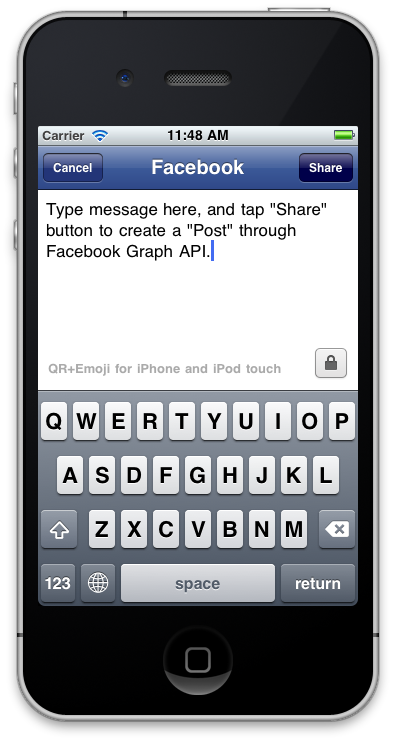
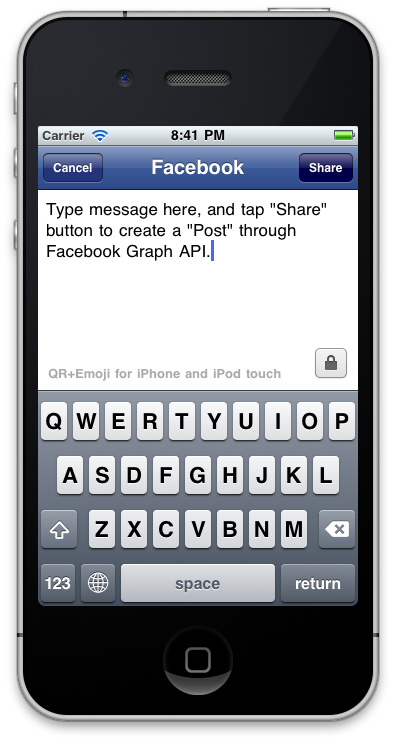
Shift label 10px off from top, and update screenshot.

Changed region(s): [[0.1212, 0.4637, 0.7273, 0.5255], [0.4242, 0.1546, 0.5758, 0.1855]]

diff --git a/DDShareFacebookController.m b/DDShareFacebookController.m
@@ -184,10 +184,9 @@
 		privacyButtonHolderView.backgroundColor = [UIColor clearColor];
 		[privacyButtonHolderView addTarget:self action:@selector(switchPrivacyPicker) forControlEvents:UIControlEventTouchUpInside];
 
-		UILabel *titleLabel = [[UILabel alloc] initWithFrame:CGRectMake(10.0f, 0.0f, self.view.frame.size.width - 64.0f, 44.0f)];
+		UILabel *titleLabel = [[UILabel alloc] initWithFrame:CGRectMake(10.0f, 10.0f, self.view.frame.size.width - 64.0f, 34.0f)];
 		titleLabel.text = self.shareName;
 		titleLabel.autoresizingMask = UIViewAutoresizingFlexibleWidth;
-		titleLabel.baselineAdjustment = UIBaselineAdjustmentAlignCenters;
 		titleLabel.font = [UIFont boldSystemFontOfSize:13.0f];
 		titleLabel.textColor = [UIColor lightGrayColor];
 		titleLabel.backgroundColor = [UIColor clearColor];
